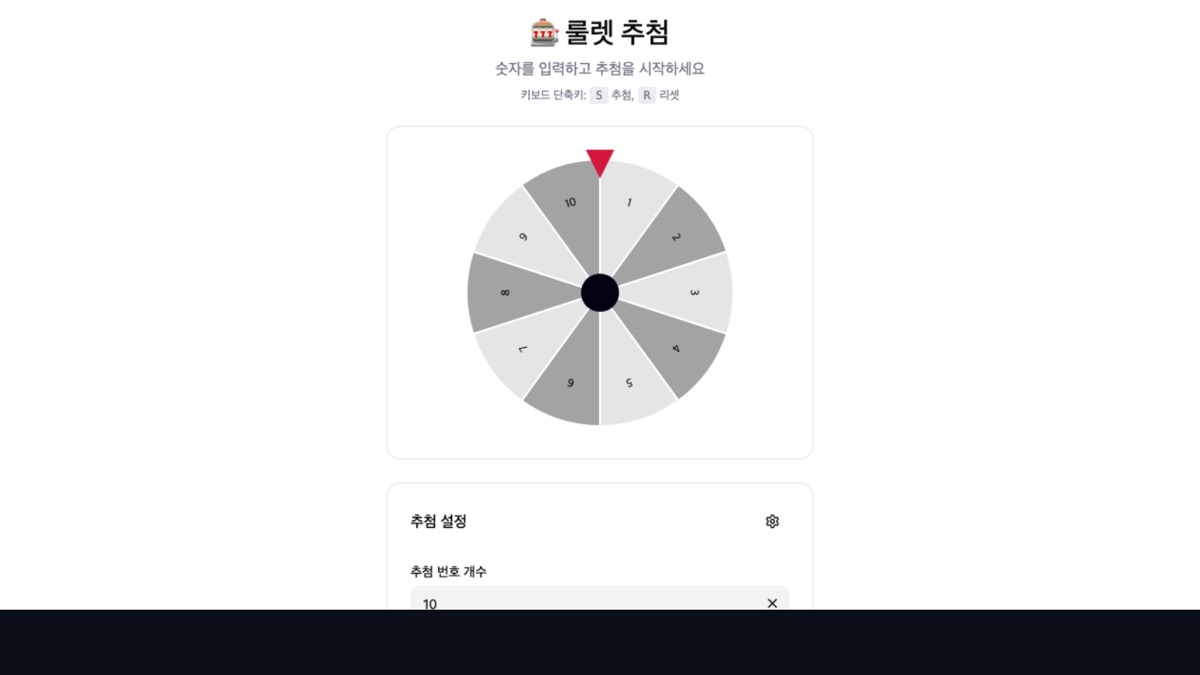
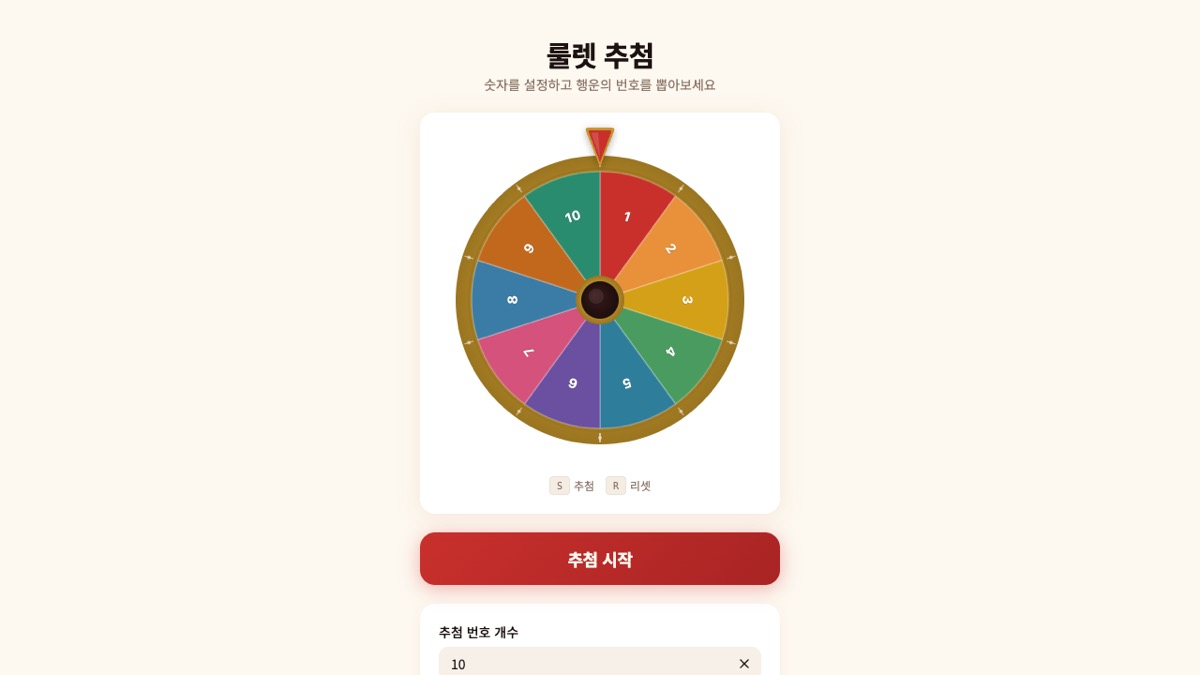
feat(portfolio): refresh lottery roulette project

Changed region(s): [[0.0, 0.1867, 1.0, 1.0], [0.4008, 0.0311, 0.5858, 0.1556]]

diff --git a/src/data/projects.ts b/src/data/projects.ts
@@ -595,21 +595,21 @@ export const projects: Project[] = [
   {
     id: 'lottery-roulette',
     name: '룰렛 추첨',
-    description: '암호학적으로 안전한 웹 기반 무작위 룰렛 추첨 시스템입니다.',
+    description: '암호학적 난수와 모바일 친화적 UI를 결합한 웹 기반 룰렛 추첨 서비스입니다.',
     url: 'https://lottery-roulette-one.vercel.app/',
-    tags: ['Random', 'Security', 'Canvas'],
+    tags: ['Lottery', 'Security', 'Embed'],
     category: 'Games',
     year: '2026',
     longDescription:
-      'Web Crypto API와 Rejection Sampling을 사용하여 완벽한 공정성을 보장하는 룰렛 추첨 애플리케이션입니다. Canvas 기반 룰렛 휠 애니메이션과 66개 테스트 케이스로 검증된 신뢰성을 제공합니다.',
+      'Web Crypto API와 Rejection Sampling으로 공정성을 확보한 룰렛 추첨 서비스입니다. 최근에는 모바일 중심 단일 화면으로 인터페이스를 다시 다듬고, 한번에 추첨·자동 연속 추첨·키보드 단축키·iframe 임베드 지원까지 포함해 이벤트 운영 화면으로 바로 쓸 수 있게 개선했습니다.',
     features: [
-      'Web Crypto API 암호학적 난수 생성',
-      'Rejection Sampling으로 modulo bias 제거',
-      '추첨 번호 개수 설정 (2-99)',
-      '중복 허용/비허용 옵션',
-      'Canvas 기반 룰렛 휠 애니메이션',
-      'XSS 방어 및 CSP 헤더',
-      '66개 테스트 케이스 통과',
+      'Web Crypto API + Rejection Sampling 기반 공정 추첨',
+      '한번에 추첨 / 순차 추첨 / 자동 연속 추첨',
+      '추첨 번호 개수, 당첨자 수, 중복 허용 여부 설정',
+      'S 추첨 / R 리셋 키보드 단축키',
+      'Canvas 기반 룰렛 휠과 당첨 콘페티 피드백',
+      '외부 사이트 iframe 임베드 지원',
+      '66개 테스트 케이스와 입력 검증 로직',
     ],
     techStack: [
       'React',
